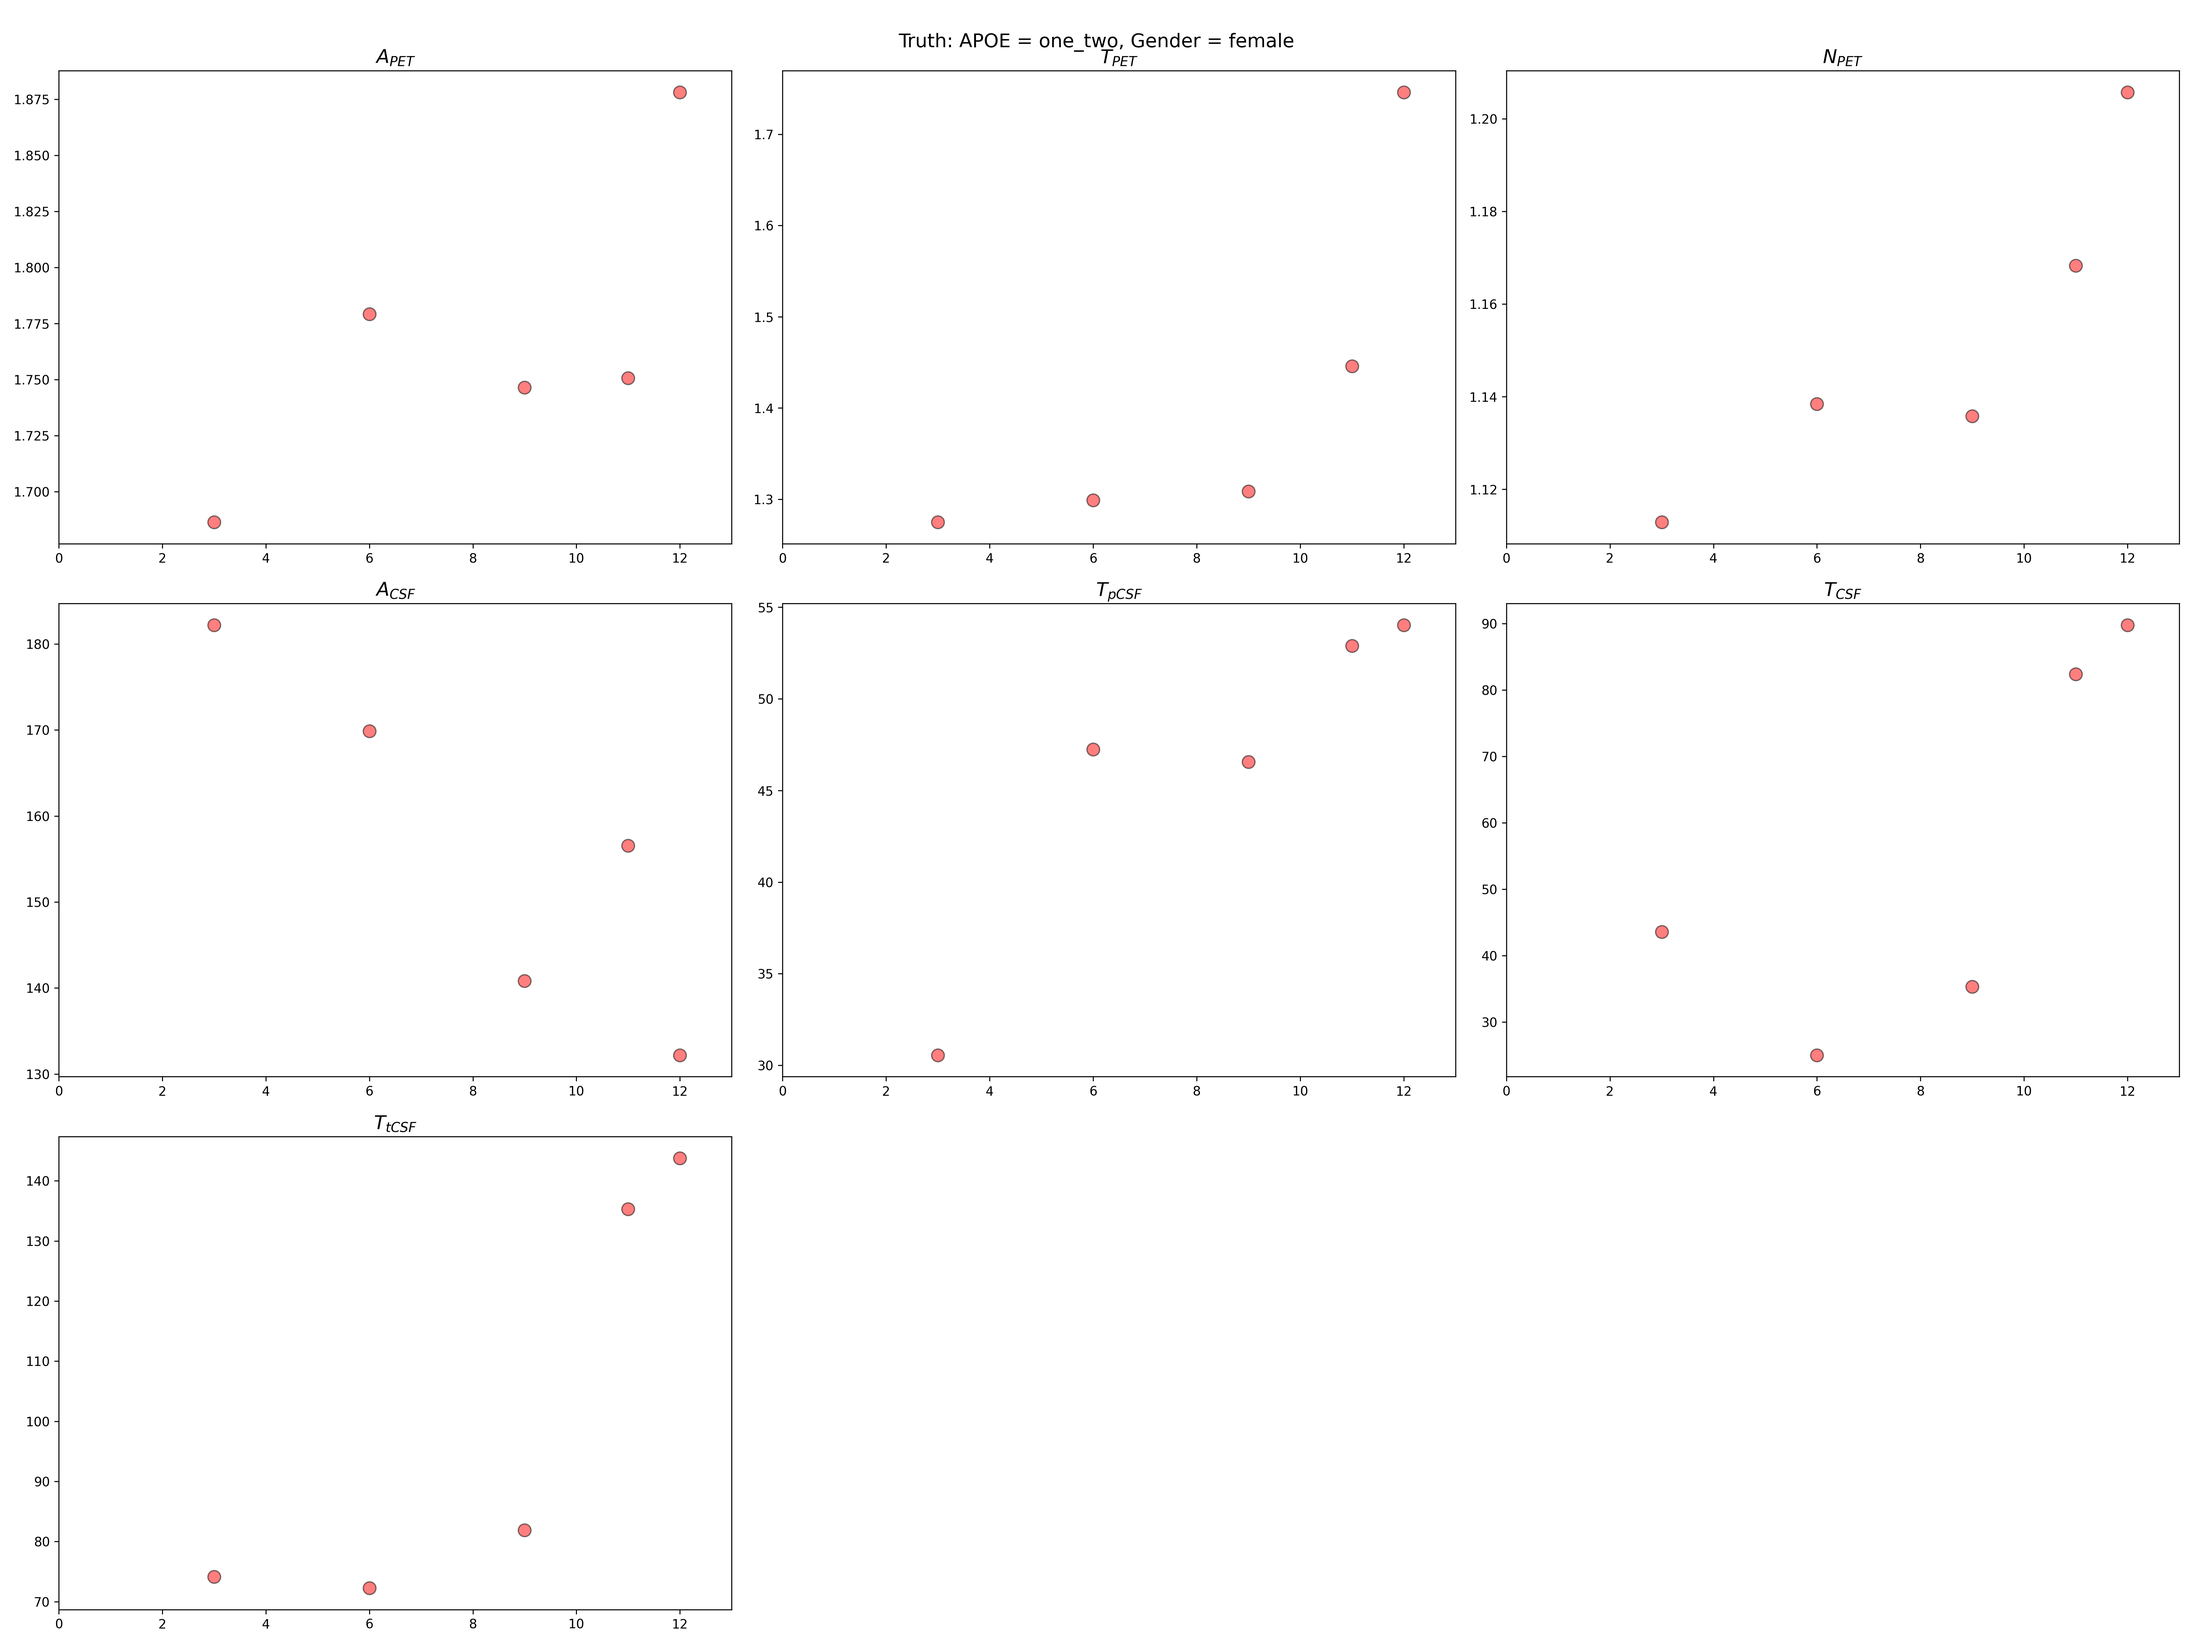
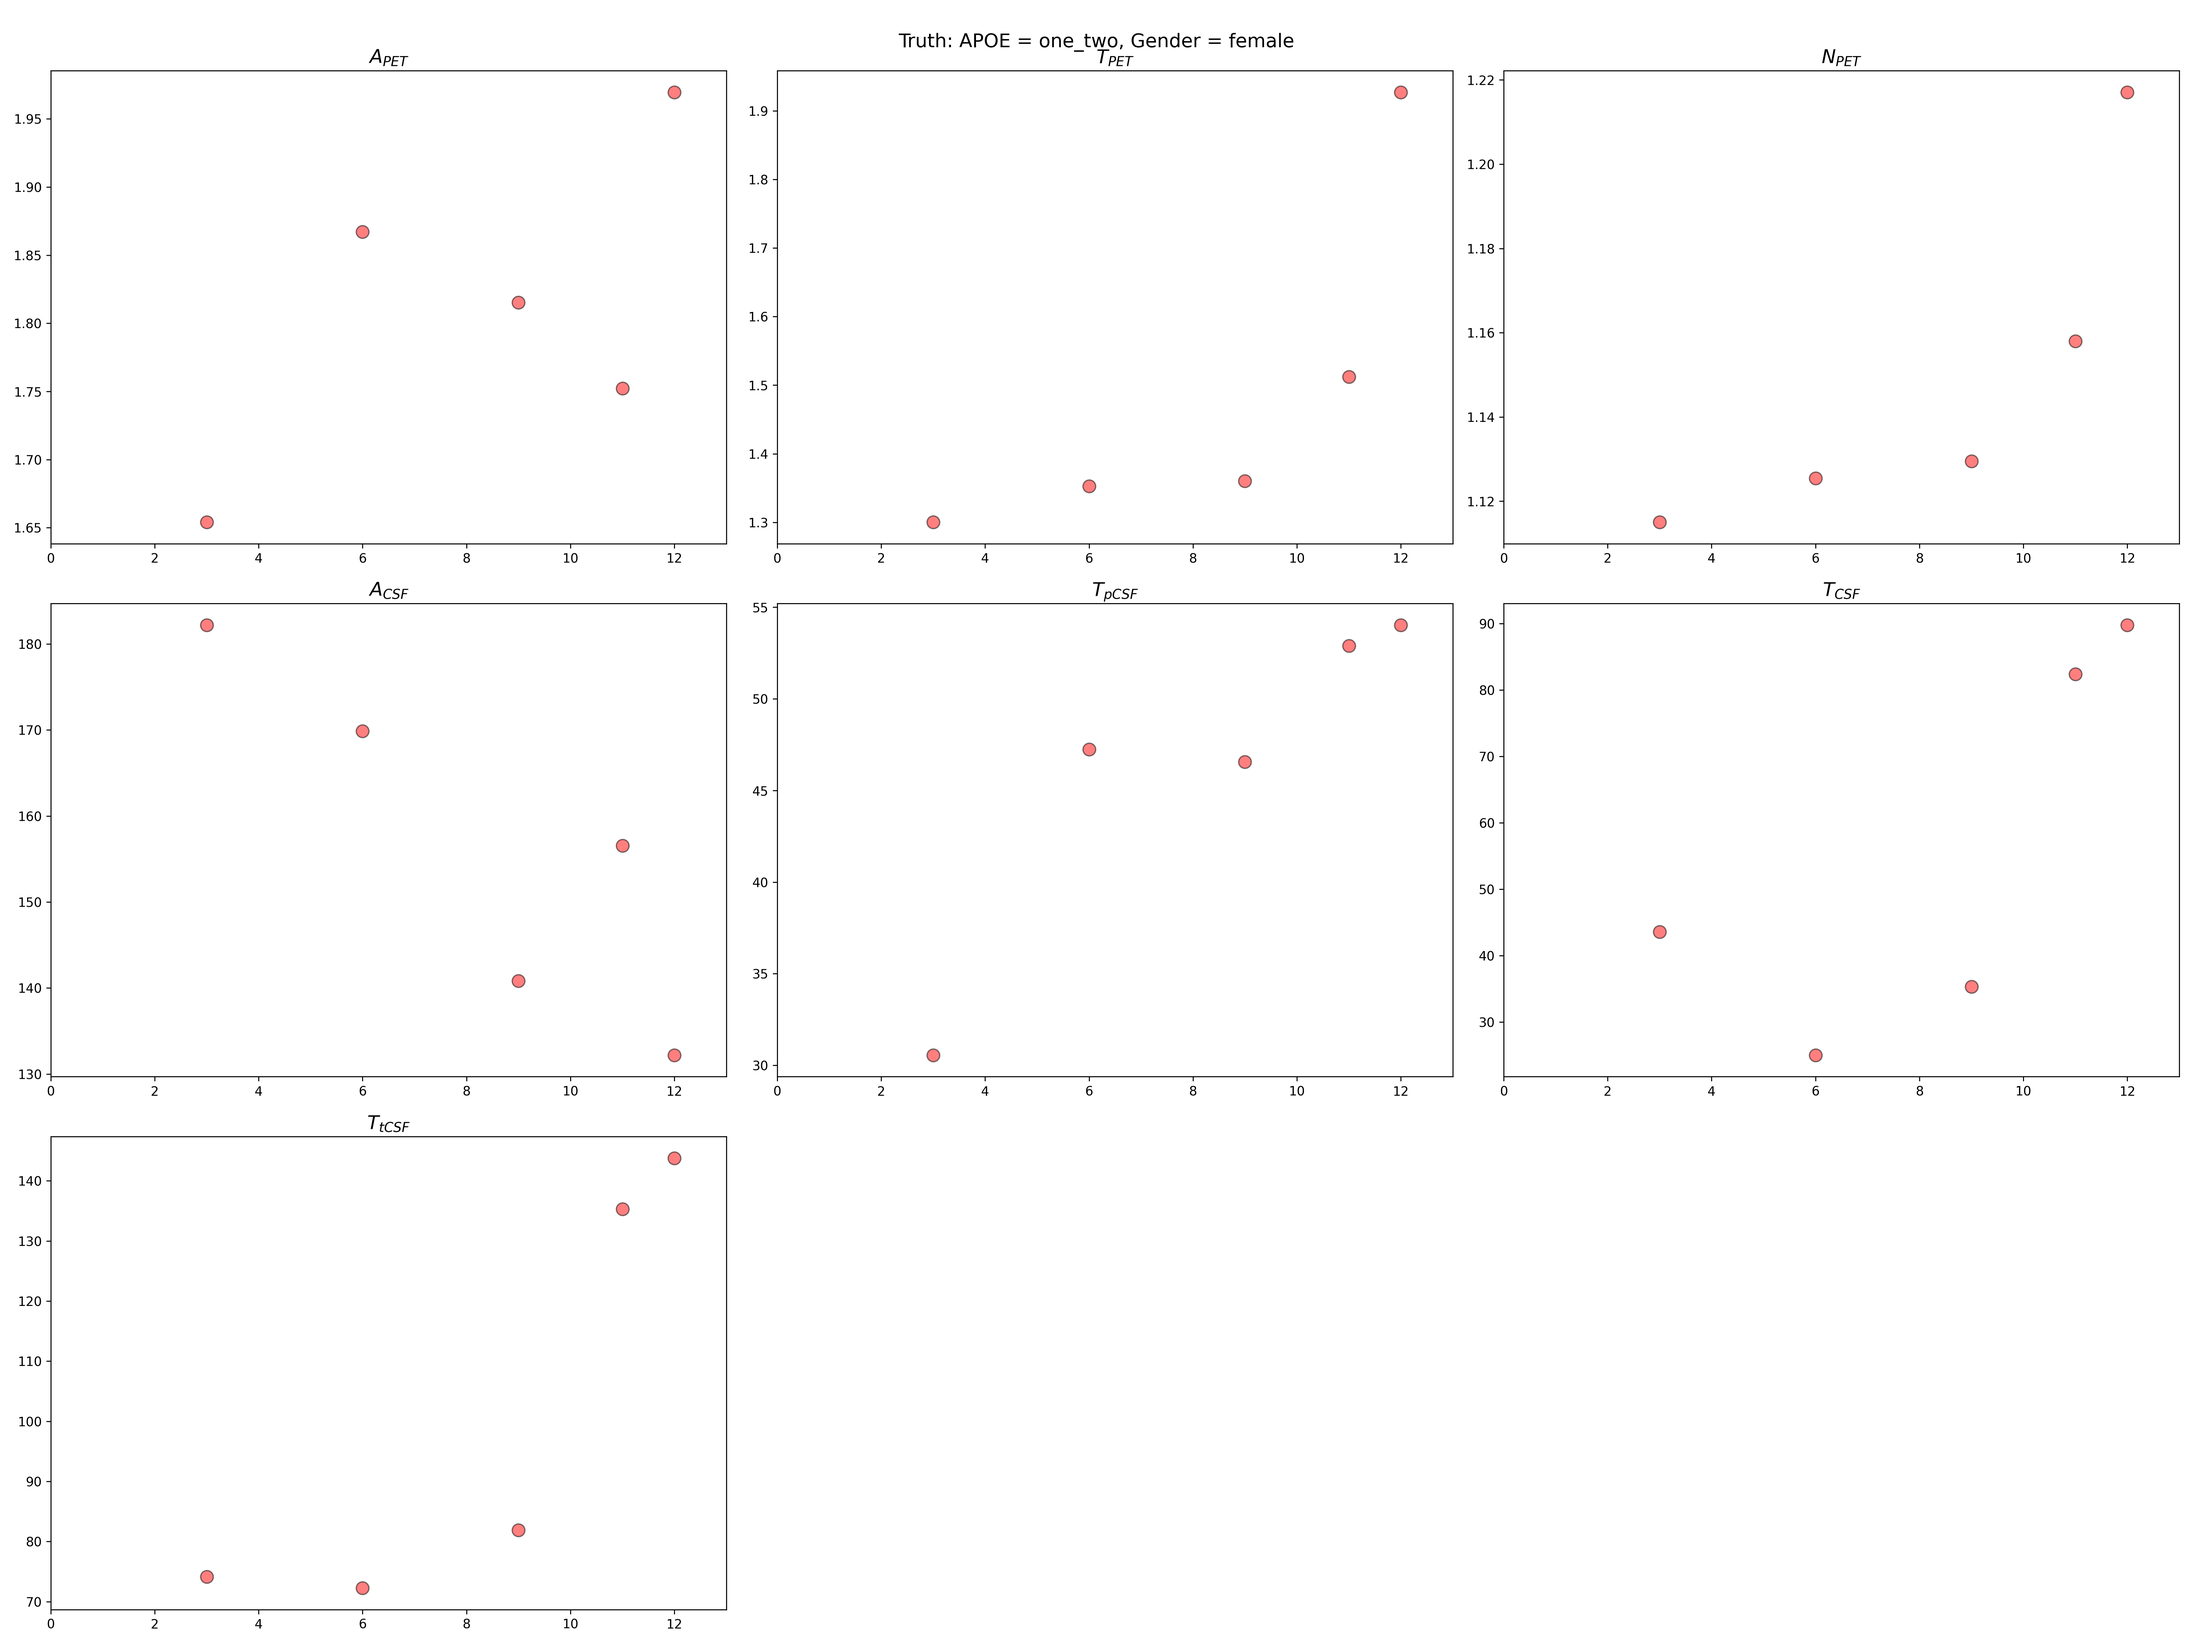
updates

Changed region(s): [[0.6562, 0.0622, 0.6875, 0.3111], [0.6562, 0.4978, 0.6875, 0.6222], [0.6562, 0.3733, 0.6875, 0.4667]]

diff --git a/data_prepare.py b/data_prepare.py
@@ -62,7 +62,7 @@ def one_time_deal_PET_specified(APOE, gender, data_path_list=None):
         data_a = data_a[data_a["APOE4"] == 0]
         data_t = data_t[data_t["APOE4"] == 0]
         data_n = data_n[data_n["APOE4"] == 0]
-    elif APOE == "one/two":
+    elif APOE == "one_two":
         data_a = data_a[(data_a["APOE4"] == 1) | (data_a["APOE4"] == 2)]
         data_t = data_t[(data_t["APOE4"] == 1) | (data_t["APOE4"] == 2)]
         data_n = data_n[(data_n["APOE4"] == 1) | (data_n["APOE4"] == 2)]
@@ -268,7 +268,7 @@ def one_time_deal_CSF_specified(APOE, gender, csf_path=None, dictionary_pickle_p
             avg = collection[LABEL_ID[one_key], :] / counts[LABEL_ID[one_key]]
             np.save("data/CSF_specified/CSF_APOE={}_gender={}_{}".format(APOE, gender, one_key), avg)
             print("CSF_{} counts={} avg={}".format(one_key, counts[LABEL_ID[one_key]], avg))
-    print("CSF counts:", counts)
+    print("CSF counts = {}:".format(np.sum(counts)), counts)
     print()
 
 
